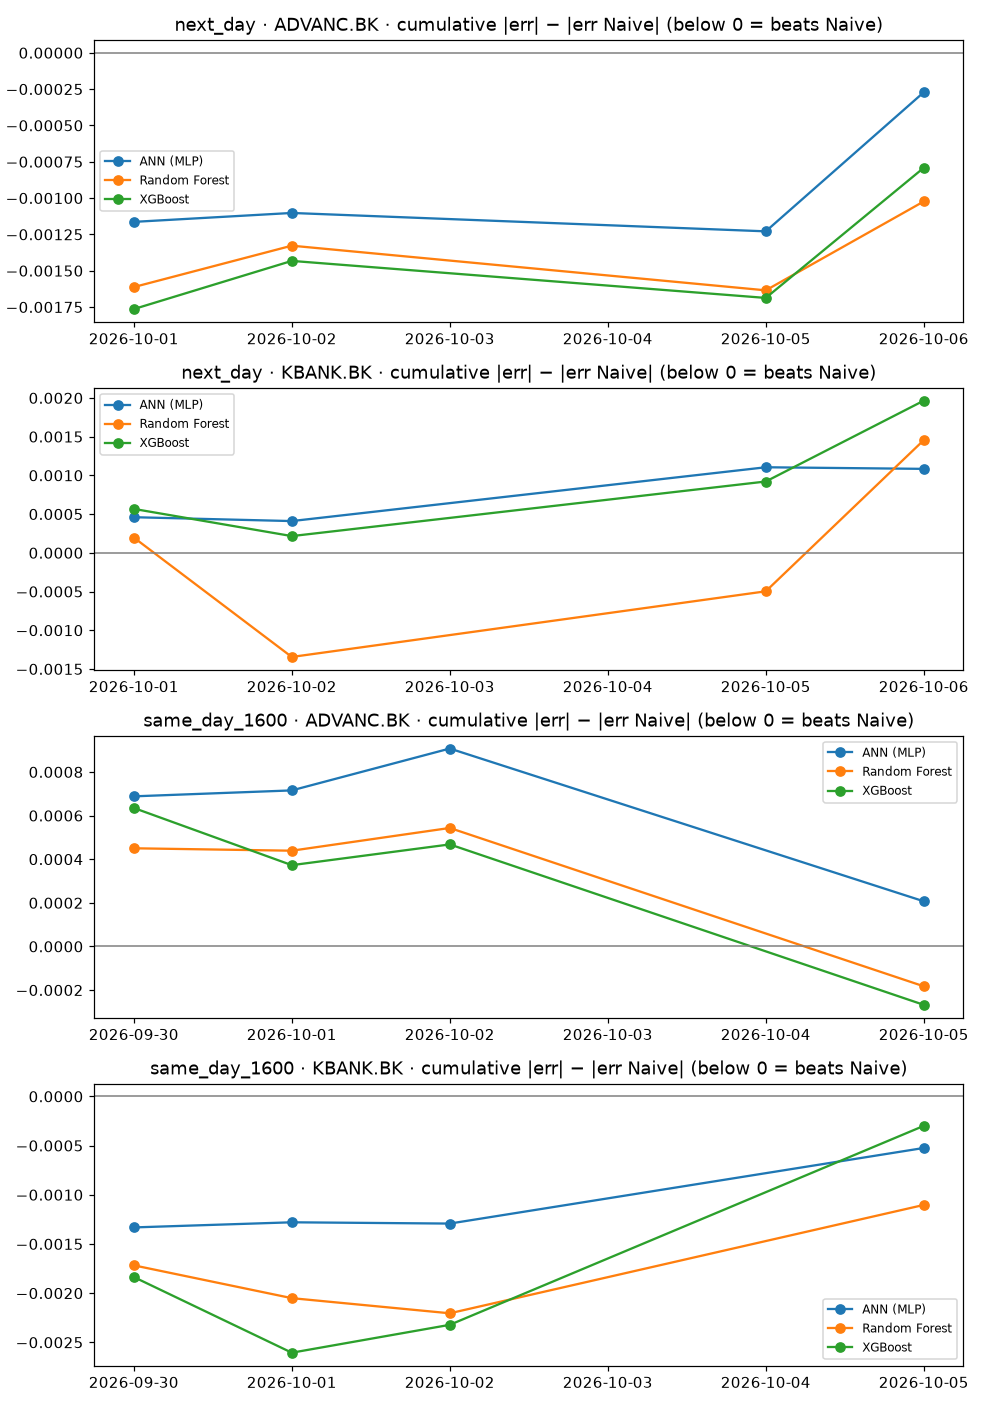
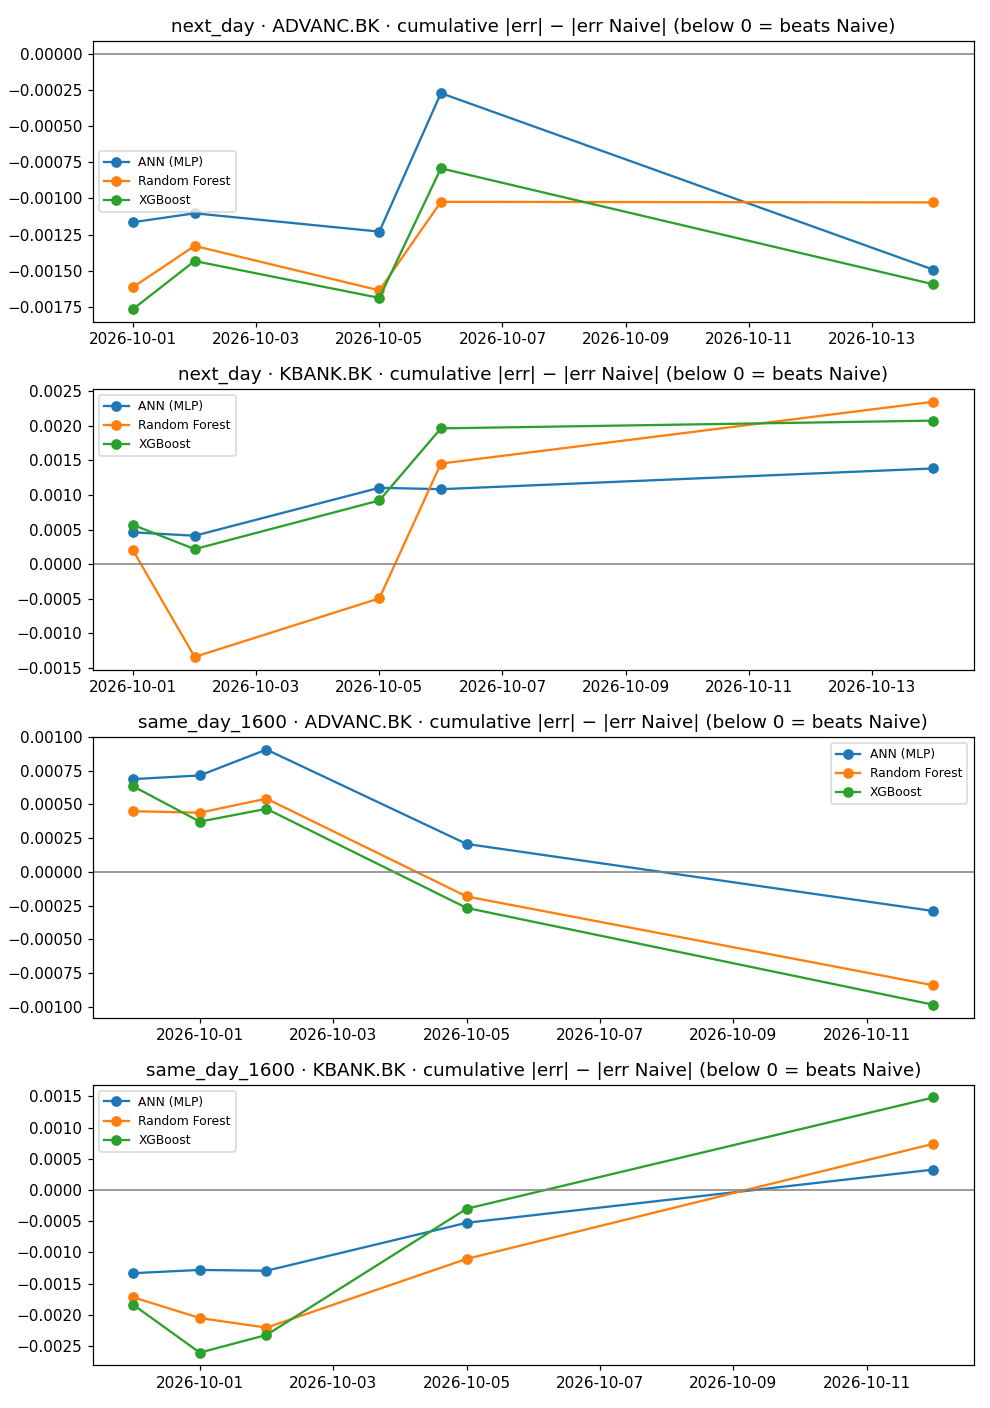
prediction log: 2026-10-15

diff --git a/task_b/results/live_report/live_report.md b/task_b/results/live_report/live_report.md
@@ -12,34 +12,34 @@
 
 | ticker | model | n | first_date | last_date | MAE_return | MAE_naive | relMAE | R2_OOS | RMSE_return | MAE_baht | wins | losses | ties | win_rate_ex_ties |
 |---|---|---|---|---|---|---|---|---|---|---|---|---|---|---|
-| ADVANC.BK | ANN (MLP) | 4 | 2026-10-01 | 2026-10-06 | 0.005030 | 0.005098 | 0.986676 | 0.013412 | 0.006309 | 1.727199 | 2 | 2 | 0 | 0.500000 |
-| ADVANC.BK | Random Forest | 4 | 2026-10-01 | 2026-10-06 | 0.004842 | 0.005098 | 0.949826 | 0.100678 | 0.006024 | 1.662812 | 2 | 2 | 0 | 0.500000 |
-| ADVANC.BK | XGBoost | 4 | 2026-10-01 | 2026-10-06 | 0.004900 | 0.005098 | 0.961186 | 0.078763 | 0.006097 | 1.682835 | 2 | 2 | 0 | 0.500000 |
-| KBANK.BK | ANN (MLP) | 4 | 2026-10-01 | 2026-10-06 | 0.006677 | 0.006406 | 1.042304 | -0.011690 | 0.008044 | 1.563762 | 2 | 2 | 0 | 0.500000 |
-| KBANK.BK | Random Forest | 4 | 2026-10-01 | 2026-10-06 | 0.006770 | 0.006406 | 1.056791 | -0.007863 | 0.008029 | 1.586914 | 1 | 3 | 0 | 0.250000 |
-| KBANK.BK | XGBoost | 4 | 2026-10-01 | 2026-10-06 | 0.006897 | 0.006406 | 1.076677 | -0.060709 | 0.008237 | 1.615900 | 1 | 3 | 0 | 0.250000 |
+| ADVANC.BK | ANN (MLP) | 5 | 2026-10-01 | 2026-10-14 | 0.004985 | 0.005283 | 0.943497 | 0.077814 | 0.006038 | 1.700695 | 3 | 2 | 0 | 0.600000 |
+| ADVANC.BK | Random Forest | 5 | 2026-10-01 | 2026-10-14 | 0.005078 | 0.005283 | 0.961119 | 0.082437 | 0.006023 | 1.729988 | 3 | 2 | 0 | 0.600000 |
+| ADVANC.BK | XGBoost | 5 | 2026-10-01 | 2026-10-14 | 0.004964 | 0.005283 | 0.939682 | 0.109921 | 0.005932 | 1.693025 | 3 | 2 | 0 | 0.600000 |
+| KBANK.BK | ANN (MLP) | 5 | 2026-10-01 | 2026-10-14 | 0.005402 | 0.005125 | 1.054042 | -0.012043 | 0.007196 | 1.264906 | 2 | 3 | 0 | 0.400000 |
+| KBANK.BK | Random Forest | 5 | 2026-10-01 | 2026-10-14 | 0.005595 | 0.005125 | 1.091761 | -0.011001 | 0.007193 | 1.310929 | 1 | 4 | 0 | 0.200000 |
+| KBANK.BK | XGBoost | 5 | 2026-10-01 | 2026-10-14 | 0.005540 | 0.005125 | 1.081064 | -0.060758 | 0.007368 | 1.297913 | 1 | 4 | 0 | 0.200000 |
 
 ### รูปร่างคำทำนาย ทิศทาง และสัญญาณ
 
 | ticker | model | Bias | StdRatio | Rho | zero_move_days | dir_hit_rate_moved_days | long_signal_days | long_signal_up_rate | prev_close_mismatch | enough_data |
 |---|---|---|---|---|---|---|---|---|---|---|
-| ADVANC.BK | ANN (MLP) | 0.001195 | 0.092254 | 0.245111 | 1 | 0.666667 | 0 | NaN | 0 | False |
-| ADVANC.BK | Random Forest | 0.001120 | 0.124853 | 0.545867 | 1 | 0.666667 | 0 | NaN | 0 | False |
-| ADVANC.BK | XGBoost | 0.001230 | 0.137531 | 0.450603 | 1 | 0.666667 | 0 | NaN | 0 | False |
-| KBANK.BK | ANN (MLP) | -0.000083 | 0.051798 | -0.086049 | 1 | 0.666667 | 0 | NaN | 0 | False |
-| KBANK.BK | Random Forest | 0.001103 | 0.083769 | 0.108382 | 1 | 0.333333 | 0 | NaN | 0 | False |
-| KBANK.BK | XGBoost | 0.000635 | 0.031470 | -0.848981 | 1 | 0.333333 | 0 | NaN | 0 | False |
+| ADVANC.BK | ANN (MLP) | -0.000005 | 0.095688 | 0.404755 | 1 | 0.750000 | 0 | NaN | 0 | False |
+| ADVANC.BK | Random Forest | -0.000308 | 0.115604 | 0.383910 | 1 | 0.750000 | 0 | NaN | 0 | False |
+| ADVANC.BK | XGBoost | -0.000060 | 0.125438 | 0.464646 | 1 | 0.750000 | 0 | NaN | 0 | False |
+| KBANK.BK | ANN (MLP) | -0.000127 | 0.053641 | -0.082629 | 2 | 0.666667 | 0 | NaN | 0 | False |
+| KBANK.BK | Random Forest | 0.000703 | 0.141116 | 0.065771 | 2 | 0.333333 | 0 | NaN | 0 | False |
+| KBANK.BK | XGBoost | 0.000485 | 0.053741 | -0.495705 | 2 | 0.333333 | 0 | NaN | 0 | False |
 
 ### ความครบและตรงเวลา
 
 | ticker | model | predictions | missing_trading_days | missing_dates | early_predictions | late_predictions |
 |---|---|---|---|---|---|---|
-| ADVANC.BK | ANN (MLP) | 4 | 0 |  | 0 | 0 |
-| ADVANC.BK | Random Forest | 4 | 0 |  | 0 | 0 |
-| ADVANC.BK | XGBoost | 4 | 0 |  | 0 | 0 |
-| KBANK.BK | ANN (MLP) | 4 | 0 |  | 0 | 0 |
-| KBANK.BK | Random Forest | 4 | 0 |  | 0 | 0 |
-| KBANK.BK | XGBoost | 4 | 0 |  | 0 | 0 |
+| ADVANC.BK | ANN (MLP) | 5 | 4 | 2026-10-07 2026-10-08 2026-10-09 2026-10-12 | 0 | 0 |
+| ADVANC.BK | Random Forest | 5 | 4 | 2026-10-07 2026-10-08 2026-10-09 2026-10-12 | 0 | 0 |
+| ADVANC.BK | XGBoost | 5 | 4 | 2026-10-07 2026-10-08 2026-10-09 2026-10-12 | 0 | 0 |
+| KBANK.BK | ANN (MLP) | 5 | 4 | 2026-10-07 2026-10-08 2026-10-09 2026-10-12 | 0 | 0 |
+| KBANK.BK | Random Forest | 5 | 4 | 2026-10-07 2026-10-08 2026-10-09 2026-10-12 | 0 | 0 |
+| KBANK.BK | XGBoost | 5 | 4 | 2026-10-07 2026-10-08 2026-10-09 2026-10-12 | 0 | 0 |
 
 ## same_day_1600
 
@@ -47,31 +47,31 @@
 
 | ticker | model | n | first_date | last_date | MAE_return | MAE_naive | relMAE | R2_OOS | RMSE_return | MAE_baht | wins | losses | ties | win_rate_ex_ties |
 |---|---|---|---|---|---|---|---|---|---|---|---|---|---|---|
-| ADVANC.BK | ANN (MLP) | 4 | 2026-09-30 | 2026-10-05 | 0.001505 | 0.001454 | 1.035622 | 0.173015 | 0.001869 | 0.518041 | 1 | 3 | 0 | 0.250000 |
-| ADVANC.BK | Random Forest | 4 | 2026-09-30 | 2026-10-05 | 0.001408 | 0.001454 | 0.968580 | 0.210439 | 0.001827 | 0.484495 | 2 | 2 | 0 | 0.500000 |
-| ADVANC.BK | XGBoost | 4 | 2026-09-30 | 2026-10-05 | 0.001387 | 0.001454 | 0.953956 | 0.283254 | 0.001740 | 0.477120 | 2 | 2 | 0 | 0.500000 |
-| KBANK.BK | ANN (MLP) | 4 | 2026-09-30 | 2026-10-05 | 0.003061 | 0.003192 | 0.958938 | 0.160630 | 0.003377 | 0.720229 | 2 | 2 | 0 | 0.500000 |
-| KBANK.BK | Random Forest | 4 | 2026-09-30 | 2026-10-05 | 0.002916 | 0.003192 | 0.913585 | 0.268467 | 0.003152 | 0.686561 | 3 | 1 | 0 | 0.750000 |
-| KBANK.BK | XGBoost | 4 | 2026-09-30 | 2026-10-05 | 0.003117 | 0.003192 | 0.976545 | 0.217529 | 0.003260 | 0.734742 | 2 | 2 | 0 | 0.500000 |
+| ADVANC.BK | ANN (MLP) | 5 | 2026-09-30 | 2026-10-12 | 0.001709 | 0.001767 | 0.967066 | 0.218438 | 0.002017 | 0.581460 | 2 | 3 | 0 | 0.400000 |
+| ADVANC.BK | Random Forest | 5 | 2026-09-30 | 2026-10-12 | 0.001599 | 0.001767 | 0.904654 | 0.273071 | 0.001945 | 0.543922 | 3 | 2 | 0 | 0.600000 |
+| ADVANC.BK | XGBoost | 5 | 2026-09-30 | 2026-10-12 | 0.001570 | 0.001767 | 0.888317 | 0.330980 | 0.001866 | 0.534096 | 3 | 2 | 0 | 0.600000 |
+| KBANK.BK | ANN (MLP) | 5 | 2026-09-30 | 2026-10-12 | 0.002619 | 0.002553 | 1.025732 | 0.147247 | 0.003044 | 0.615410 | 2 | 3 | 0 | 0.400000 |
+| KBANK.BK | Random Forest | 5 | 2026-09-30 | 2026-10-12 | 0.002702 | 0.002553 | 1.058145 | 0.205779 | 0.002938 | 0.634146 | 3 | 2 | 0 | 0.600000 |
+| KBANK.BK | XGBoost | 5 | 2026-09-30 | 2026-10-12 | 0.002850 | 0.002553 | 1.116286 | 0.158952 | 0.003023 | 0.669861 | 2 | 3 | 0 | 0.400000 |
 
 ### รูปร่างคำทำนาย ทิศทาง และสัญญาณ
 
 | ticker | model | Bias | StdRatio | Rho | zero_move_days | dir_hit_rate_moved_days | long_signal_days | long_signal_up_rate | prev_close_mismatch | enough_data |
 |---|---|---|---|---|---|---|---|---|---|---|
-| ADVANC.BK | ANN (MLP) | -0.001065 | 0.217177 | -0.160671 | 2 | 0.500000 | 0 | NaN | 2 | False |
-| ADVANC.BK | Random Forest | -0.001183 | 0.230107 | 0.295508 | 2 | 1.000000 | 0 | NaN | 2 | False |
-| ADVANC.BK | XGBoost | -0.001069 | 0.225829 | 0.350880 | 2 | 1.000000 | 0 | NaN | 2 | False |
-| KBANK.BK | ANN (MLP) | 0.001197 | 0.213460 | 0.579291 | 1 | 0.666667 | 0 | NaN | 1 | False |
-| KBANK.BK | Random Forest | 0.001078 | 0.293129 | 0.653897 | 1 | 1.000000 | 0 | NaN | 1 | False |
-| KBANK.BK | XGBoost | 0.000878 | 0.400680 | 0.463255 | 1 | 0.666667 | 0 | NaN | 1 | False |
+| ADVANC.BK | ANN (MLP) | -0.001357 | 0.197961 | -0.076268 | 2 | 0.666667 | 0 | NaN | 2 | False |
+| ADVANC.BK | Random Forest | -0.001419 | 0.233616 | 0.436597 | 2 | 1.000000 | 0 | NaN | 2 | False |
+| ADVANC.BK | XGBoost | -0.001316 | 0.223543 | 0.467770 | 2 | 1.000000 | 0 | NaN | 2 | False |
+| KBANK.BK | ANN (MLP) | 0.001128 | 0.229211 | 0.580608 | 2 | 0.666667 | 0 | NaN | 2 | False |
+| KBANK.BK | Random Forest | 0.001231 | 0.369056 | 0.591303 | 2 | 1.000000 | 0 | NaN | 2 | False |
+| KBANK.BK | XGBoost | 0.001059 | 0.466641 | 0.459777 | 2 | 0.666667 | 0 | NaN | 2 | False |
 
 ### ความครบและตรงเวลา
 
 | ticker | model | predictions | missing_trading_days | missing_dates | early_predictions | late_predictions |
 |---|---|---|---|---|---|---|
-| ADVANC.BK | ANN (MLP) | 5 | 4 | 2026-10-06 2026-10-07 2026-10-08 2026-10-09 | 0 | 0 |
-| ADVANC.BK | Random Forest | 5 | 4 | 2026-10-06 2026-10-07 2026-10-08 2026-10-09 | 0 | 0 |
-| ADVANC.BK | XGBoost | 5 | 4 | 2026-10-06 2026-10-07 2026-10-08 2026-10-09 | 0 | 0 |
-| KBANK.BK | ANN (MLP) | 5 | 4 | 2026-10-06 2026-10-07 2026-10-08 2026-10-09 | 0 | 0 |
-| KBANK.BK | Random Forest | 5 | 4 | 2026-10-06 2026-10-07 2026-10-08 2026-10-09 | 0 | 0 |
-| KBANK.BK | XGBoost | 5 | 4 | 2026-10-06 2026-10-07 2026-10-08 2026-10-09 | 0 | 0 |
+| ADVANC.BK | ANN (MLP) | 6 | 4 | 2026-10-06 2026-10-07 2026-10-08 2026-10-09 | 0 | 0 |
+| ADVANC.BK | Random Forest | 6 | 4 | 2026-10-06 2026-10-07 2026-10-08 2026-10-09 | 0 | 0 |
+| ADVANC.BK | XGBoost | 6 | 4 | 2026-10-06 2026-10-07 2026-10-08 2026-10-09 | 0 | 0 |
+| KBANK.BK | ANN (MLP) | 6 | 4 | 2026-10-06 2026-10-07 2026-10-08 2026-10-09 | 0 | 0 |
+| KBANK.BK | Random Forest | 6 | 4 | 2026-10-06 2026-10-07 2026-10-08 2026-10-09 | 0 | 0 |
+| KBANK.BK | XGBoost | 6 | 4 | 2026-10-06 2026-10-07 2026-10-08 2026-10-09 | 0 | 0 |
